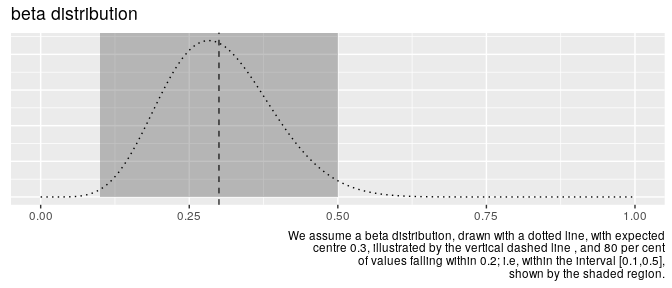
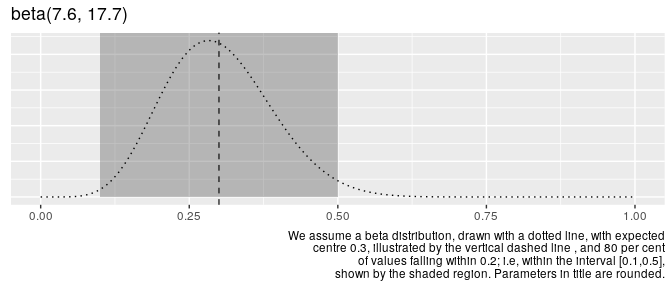
updated text in plot

Changed region(s): [[0.5, 0.9375, 1.0, 0.9688], [0.0625, 0.0, 0.2188, 0.0938]]

diff --git a/README.md b/README.md
@@ -49,8 +49,8 @@ beta distribution, what are its parameters?
 ``` r
 
 beta_pal(expected_value = 0.3,
-         this_much = 0.8,
-         within = 0.2)
+          within = 0.2,
+          this_much = 0.8)
 #> $shape1
 #> [1] 7.575
 #> 
@@ -63,8 +63,8 @@ distribution.
 
 ``` r
 beta_plot(expected_value = 0.3,
-          this_much = 0.8,
-          within = 0.2)
+          within = 0.2,
+          this_much = 0.8)
 ```
 
 <img src="man/figures/README-unnamed-chunk-5-1.png" width="100%" />
@@ -75,8 +75,8 @@ only 30 per cent of values fall within the interval.
 
 ``` r
 beta_plot(expected_value = 0.3,
-          this_much = 0.3,
-          within = 0.2)
+          within = 0.2,
+          this_much = 0.8)
 ```
 
 <img src="man/figures/README-unnamed-chunk-6-1.png" width="100%" />
